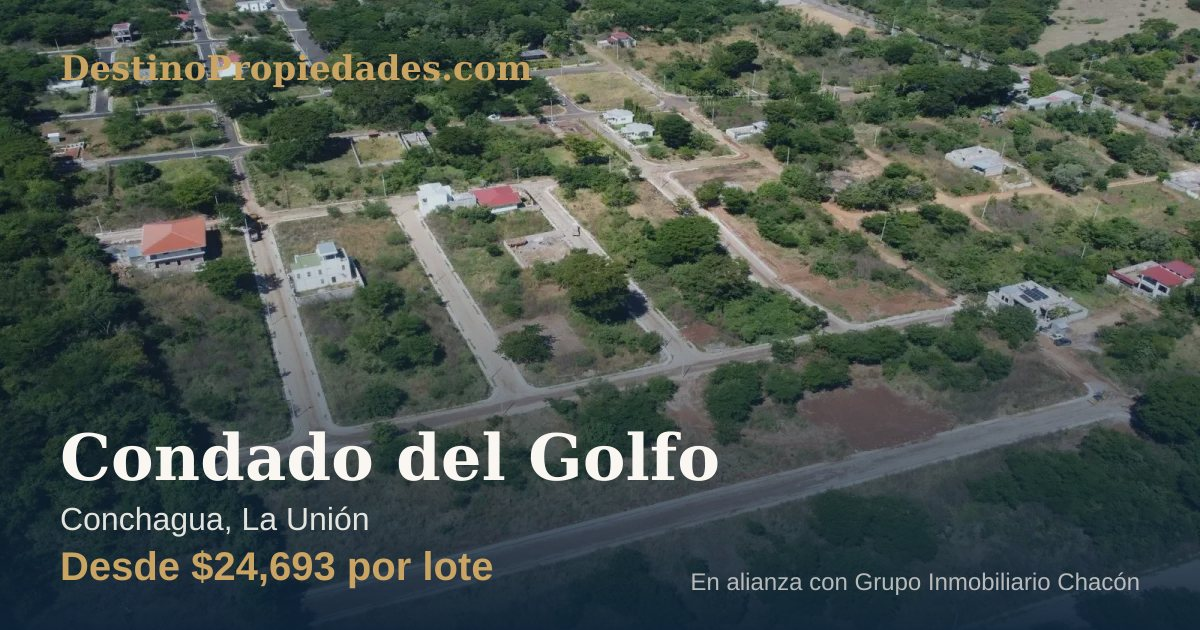
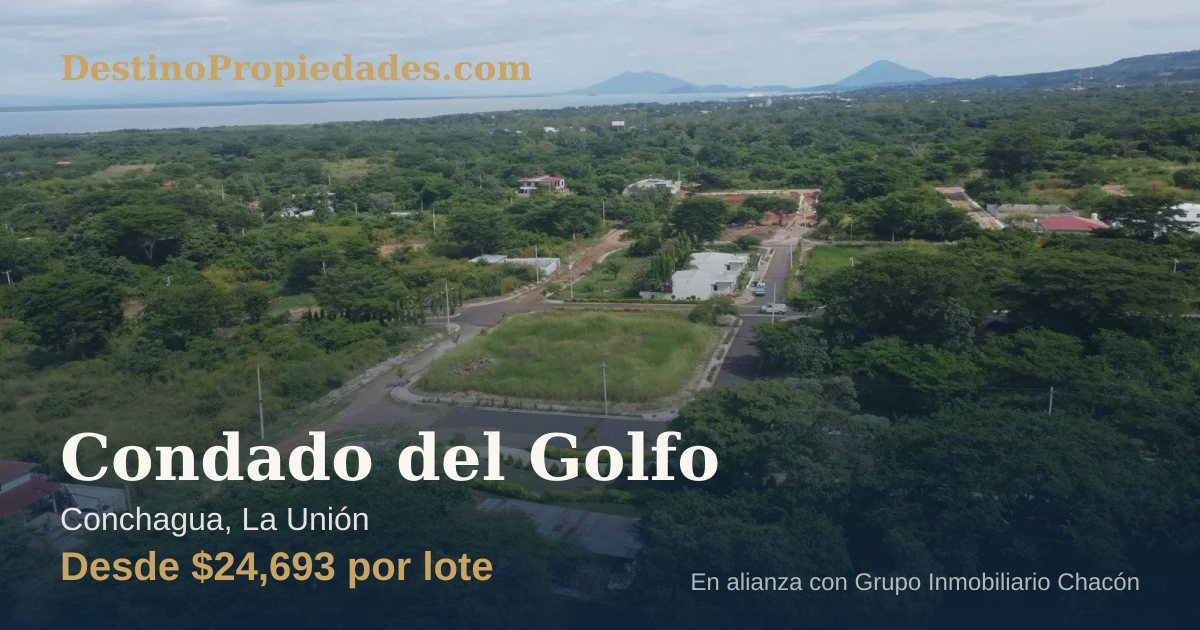
Amplia galeria de Condado del Golfo con 5 fotos aereas reales
- Portada panoramica con vista al Golfo de Fonseca
- Vista aerea de calles, entrada, cordon cuneta y obra en avance
- Renombra archivos de galeria de forma descriptiva y elimina placeholders
- Menciona la vista al Golfo en la descripcion
- Regenera imagen OG con la nueva portada

Claude-Session: https://claude.ai/code/session_012RgCYLzpn9WGgRUeuVZfJr

diff --git a/src/data/proyectos.ts b/src/data/proyectos.ts
@@ -165,9 +165,8 @@ export const proyectos: Proyecto[] = [
 
   // ───────────────────────────────────────────────────────────────────────
   // PROYECTO REAL — datos tomados de los documentos de Grupo Chacón / GESCOSAL
-  // (presentación, lista de precios, ficha de amenidades y plano). Las FOTOS
-  // siguen pendientes (las de marketing están en la "Presentación general"
-  // que no se incluyó); por ahora hay placeholders + el plano real.
+  // (presentación, lista de precios, ficha de amenidades y plano) y fotos
+  // aéreas reales (dron) provistas por el desarrollador.
   // ───────────────────────────────────────────────────────────────────────
   {
     id: "condado-del-golfo",
@@ -184,16 +183,20 @@ export const proyectos: Proyecto[] = [
       "La Unión. Es un proyecto amplio y pensado como comunidad: calles " +
       "asfaltadas, cordón cuneta, aceras, áreas verdes jardinizadas, casa " +
       "club, ciclovía y zona pet-friendly, con caseta de seguridad y " +
-      "factibilidades de servicios básicos. Una opción para volver, invertir " +
-      "y construir patrimonio familiar en una zona en crecimiento, cerca de " +
-      "servicios como el Hospital Nacional de La Unión.",
+      "factibilidades de servicios básicos. Desde el proyecto se aprecia la " +
+      "vista al Golfo de Fonseca y a los volcanes de la zona. Una opción para " +
+      "volver, invertir y construir patrimonio familiar en una zona en " +
+      "crecimiento, cerca de servicios como el Hospital Nacional de La Unión.",
+    // Fotos aéreas reales del proyecto (dron). Portada: panorámica con el
+    // Golfo de Fonseca y los volcanes al fondo.
     galeria: [
-      "/assets/proyectos/condado-del-golfo/1.webp", // foto aérea real (calles y lotes)
-      "/assets/proyectos/condado-del-golfo/2.webp", // foto aérea real (entrada y casas terminadas)
+      "/assets/proyectos/condado-del-golfo/panoramica-golfo.webp", // vista al Golfo de Fonseca
+      "/assets/proyectos/condado-del-golfo/vista-aerea.webp", // calles internas y lotes
+      "/assets/proyectos/condado-del-golfo/entrada-casas.webp", // entrada y casas terminadas
+      "/assets/proyectos/condado-del-golfo/calles.webp", // calles con cordón cuneta
+      "/assets/proyectos/condado-del-golfo/obra.webp", // obra en avance (maquinaria)
       "/assets/proyectos/condado-del-golfo/plano.webp", // plano real de distribución
-      "/assets/proyectos/condado-del-golfo/3.webp",
-      "/assets/proyectos/condado-del-golfo/4.webp",
-    ], // PENDIENTE: reemplazar 3-4 con más fotos reales (caseta, casa club)
+    ],
     precioDesde: 24693,
     etiquetaPrecio: "Desde $24,693 por lote",
     // Tipos representativos calculados desde el inventario real (261 lotes).